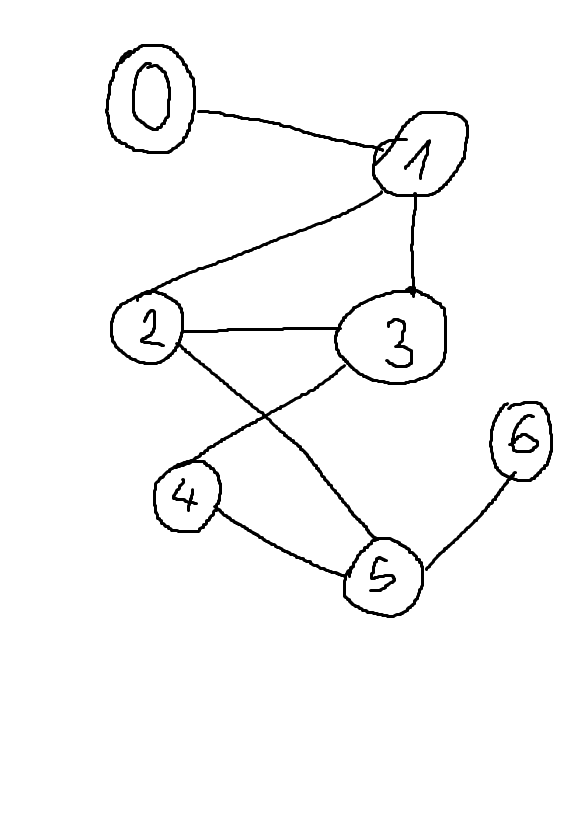
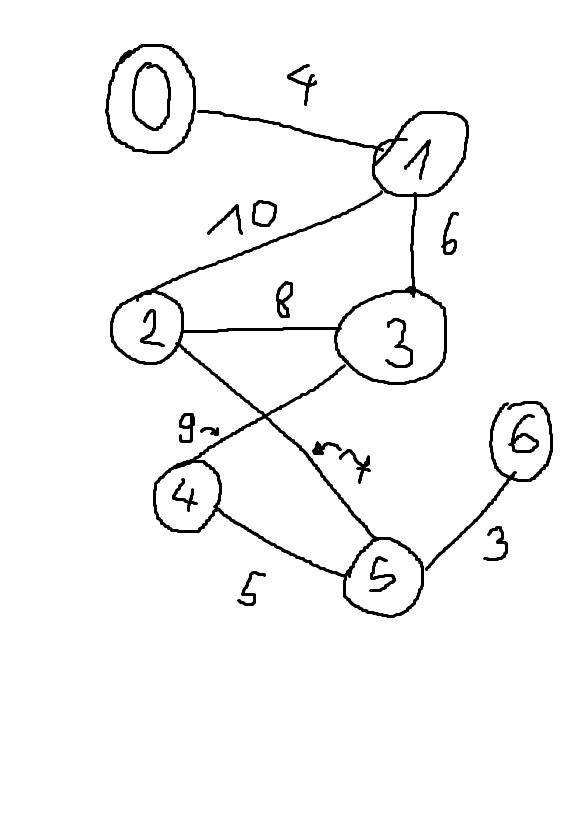
Added Dijkstra's single source shortest paths algorithm

diff --git a/data-structures/WeightedGraph.py b/data-structures/WeightedGraph.py
@@ -29,6 +29,47 @@ class WeightedGraph:
                 forest.union(edge[0], edge[1])
         return ans
 
+    def edge_exists(self, start, vertex):
+        for edge in self.edges:
+            if start == edge[0] and vertex == edge[1]:
+                return (True, edge[2])
+        return (False, -1)
+
+    def minimum_dist(self, distance, visited):
+        minimum = float("inf")
+        min_index = -1
+        for vert in self.vertices:
+            if distance[vert] < minimum and vert not in visited:
+                minimum = distance[vert]
+                min_index = vert
+
+        return min_index
+
+    def get_weight(self, start, end):
+        for edge in self.edges:
+            if start == edge[0] and end == edge[1]:
+                return edge[2]
+        return float("inf")
+
+    def dijkstra_single_source(self, start):
+        visited = []
+        distance = [0] * len(self.vertices)
+        for vertex in self.vertices:
+            (exists, weight) = self.edge_exists(start, vertex)
+            if vertex != start and exists:
+                distance[vertex] = weight
+            else:
+                distance[vertex] = float("inf")
+        while len(visited) != len(self.vertices):
+            u = self.minimum_dist(distance, visited)
+            visited.append(u)
+            for vert in self.vertices:
+                if vert not in visited:
+                    distance[vert] = min(
+                        distance[vert], distance[u] + self.get_weight(u, vert))
+
+        print(distance)
+
 
 if __name__ == "__main__":
     g = WeightedGraph()
@@ -43,3 +84,4 @@ if __name__ == "__main__":
     g.add_edge(4, 5, 5)
     g.add_edge(5, 6, 3)
     print(g.kruskal())
+    g.dijkstra_single_source(0)
